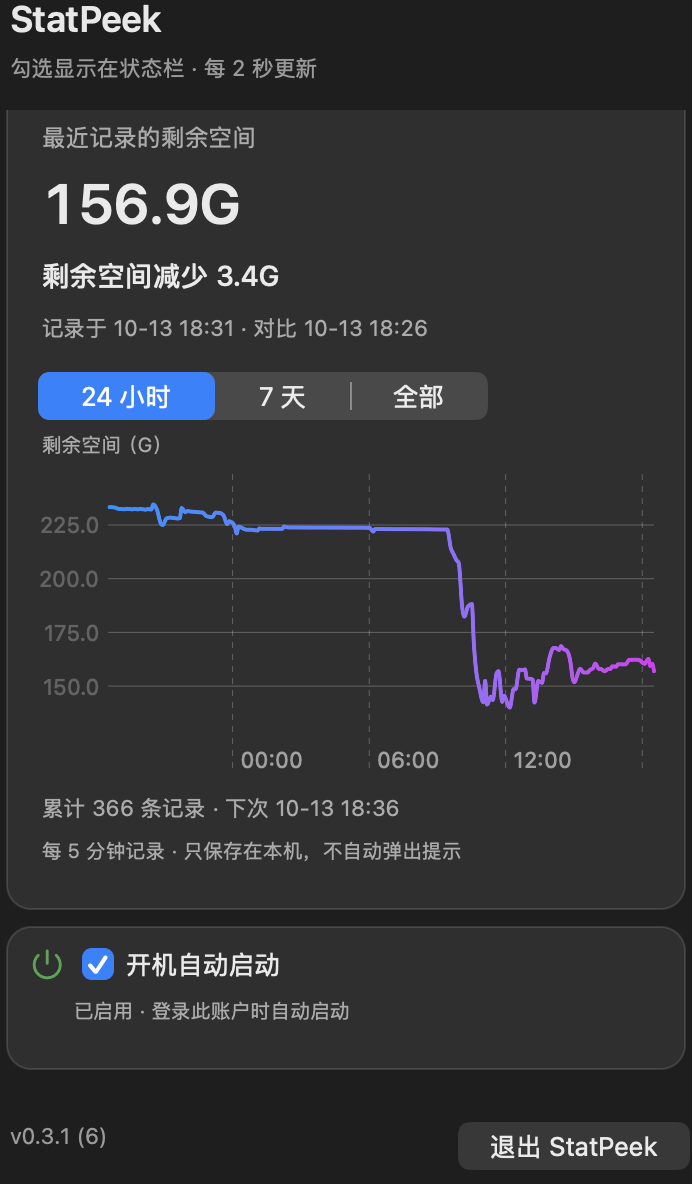
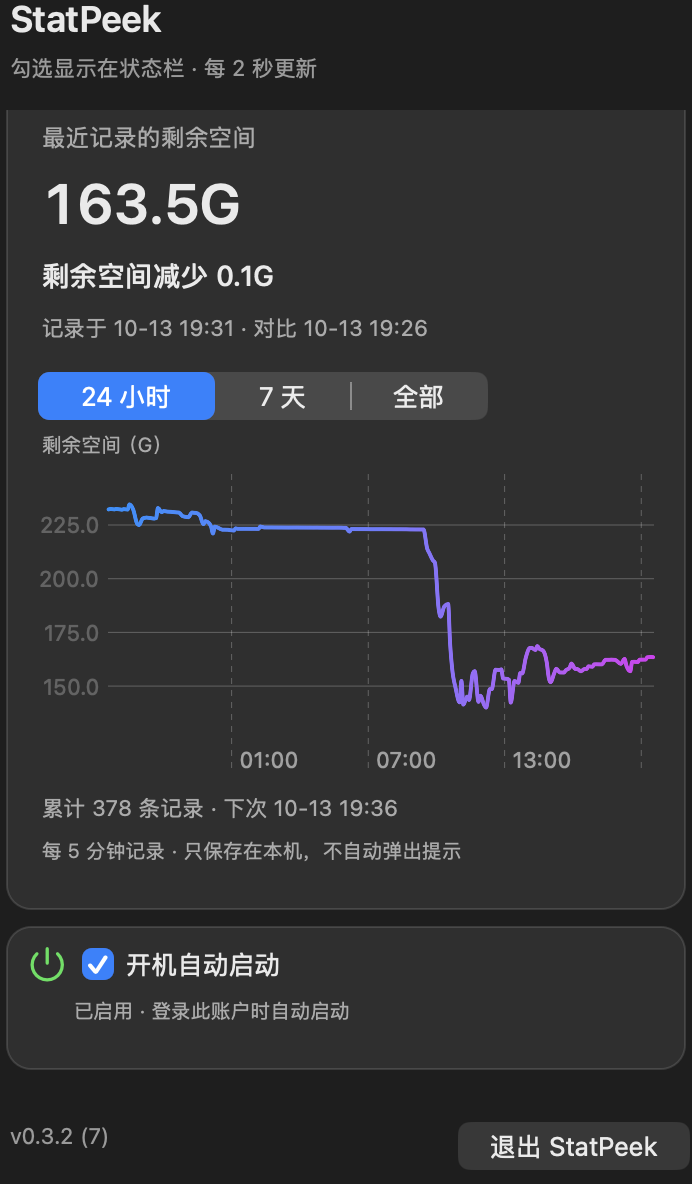
优化原生符号动画并保持选色时设置浮层
GPU 使用三层立体 SF Symbol 表达图形渲染，四项继续保持统一系统图标风格。动画改为 macOS 15+ 原生 Breathe 分层呼吸，移除自制透明度兼容动画；旧系统保持静态。
设置浮层采用半临时行为，系统颜色面板打开、切换配色目标与关闭面板时保留浮层并实时刷新；应用失去激活时关闭，保留 Escape 和状态栏关闭操作。
升级至 0.3.2（7）。完整 43 项 Release 测试、四项原生动画截帧、颜色面板共存、真实退出重启保存、原历史和偏好保留以及 Applications 安装复核通过，更新真实截图和验收记录。

diff --git a/StatPeek/ModuleSymbolView.swift b/StatPeek/ModuleSymbolView.swift
@@ -1,5 +1,4 @@
 import AppKit
-import QuartzCore
 import Symbols
 
 /// Decorative symbols stay inside the popover; status-bar labels remain D/C/M/G.
@@ -23,25 +22,12 @@ final class ModuleSymbolView: NSImageView {
     func setAnimating(_ animate: Bool) {
         guard animate != isAnimating else { return }
         isAnimating = animate
-        if #available(macOS 14.0, *) {
+        // Breathe is native to SF Symbols on macOS 15+. Older systems stay static.
+        if #available(macOS 15.0, *) {
             if animate {
-                addSymbolEffect(.pulse.wholeSymbol, options: .repeating.speed(0.45))
+                addSymbolEffect(.breathe.plain.byLayer, options: .repeating.speed(0.65))
             } else {
                 removeAllSymbolEffects()
-            }
-        } else {
-            wantsLayer = true
-            if animate {
-                let pulse = CABasicAnimation(keyPath: "opacity")
-                pulse.fromValue = 0.65
-                pulse.toValue = 1.0
-                pulse.duration = 1.5
-                pulse.autoreverses = true
-                pulse.repeatCount = .infinity
-                pulse.timingFunction = CAMediaTimingFunction(name: .easeInEaseOut)
-                layer?.add(pulse, forKey: "module-pulse")
-            } else {
-                layer?.removeAnimation(forKey: "module-pulse")
             }
         }
     }

diff --git a/StatPeek/StatusBarController.swift b/StatPeek/StatusBarController.swift
@@ -22,10 +22,13 @@ final class StatusBarController: NSObject, NSPopoverDelegate {
             button.setAccessibilityIdentifier("status-toggle")
             button.addSubview(strip)
         }
-        popover.behavior = .transient
+        // Keep settings visible when a window of this app (the color panel) gains focus.
+        popover.behavior = .semitransient
         popover.animates = false
         popover.delegate = self
         popover.contentViewController = settings
+        NotificationCenter.default.addObserver(self, selector: #selector(closeOnDeactivation),
+                                               name: NSApplication.didResignActiveNotification, object: NSApp)
         settings.onToggle = { [weak self] metric in
             guard let self else { return }
             self.selection.toggle(metric)
@@ -107,6 +110,10 @@ final class StatusBarController: NSObject, NSPopoverDelegate {
 
     func popoverDidClose(_ notification: Notification) {
         if !selection.selected.contains(.cpu) { sampler.resetCPU() }
+    }
+
+    @objc private func closeOnDeactivation() {
+        if popover.isShown { popover.performClose(nil) }
     }
 
     @objc private func togglePopover() {

diff --git a/StatPeek/SettingsViewController.swift b/StatPeek/SettingsViewController.swift
@@ -251,7 +251,7 @@ private final class MetricCardView: DashboardCardView {
         case .disk: symbolName = "internaldrive"
         case .cpu: symbolName = "cpu"
         case .memory: symbolName = "memorychip"
-        case .gpu: symbolName = "cpu.fill"
+        case .gpu: symbolName = "square.3.layers.3d"
         }
         symbol = ModuleSymbolView(name: symbolName, color: .labelColor,
                                   frame: NSRect(x: 12, y: frame.height - 28, width: 18, height: 18))

diff --git a/docs/SPEC.md b/docs/SPEC.md
@@ -5,7 +5,7 @@
 Stat 表示系统状态，Peek 表示点开看一眼。产品、主 Target、共享 Scheme 均使用 StatPeek。
 当前任务完成原生 macOS 项目、本机界面验证、应用图标、Xcode 应用信息、Applications 安装，并推送到用户授权的 GitHub 公开仓库；商标核验与 App Store 上架另行处理。
 
-应用信息：StatPeek，Bundle ID `com.zyapps.StatPeek`，版本 0.3.1 / Build 6，Utilities 分类，最低 macOS 13.0。原型 `local.StatPeek` 的选择与配色在新标识首次启动时迁移，已有新偏好不覆盖。
+应用信息：StatPeek，Bundle ID `com.zyapps.StatPeek`，版本 0.3.2 / Build 7，Utilities 分类，最低 macOS 13.0。原型 `local.StatPeek` 的选择与配色在新标识首次启动时迁移，已有新偏好不覆盖。
 
 图标：深蓝底板、两排彩色状态指示，见 `icon-design.md`；AppIcon 资源包含 macOS 标准 16–1024 像素尺寸。
 
@@ -109,3 +109,13 @@ Stat 表示系统状态，Peek 表示点开看一眼。产品、主 Target、共
 - 用既有仪表盘/历史测试与真实上下滚动验证，安装并同步 GitHub。
 
 动画 API：[Apple PulseSymbolEffect](https://developer.apple.com/documentation/symbols/pulsesymboleffect)。
+
+## 0.3.2 原生分层呼吸与 GPU 图标
+
+- 四项继续使用系统 SF Symbol，GPU 改为 square.3.layers.3d，用三层立体图形表达图形渲染；这是产品语义选择，不宣称为 Apple 专用 GPU 符号。Apple 目录未提供名为 gpu 或 graphicscard 的符号。
+- macOS 15+ 可见图标使用 BreatheSymbolEffect.plain.byLayer，按系统原生运动图层平滑缩放，速度 0.65；不额外叠加透明度、弹跳或旋转。GPU 符号具有三组原生运动图层，其余三项具有一组。
+- macOS 13/14 保持静态；移除 Core Animation 兼容动画。系统开启减少动态效果、关闭浮层或滚出可见区域时停止；指标自选配色、紧凑卡片和状态栏字母保留。
+- 验收原生动画实际帧变化、四项图标清晰度、滚动/关闭/重新打开、勾选和重启保存；保留原偏好与真实历史，再安装和推送。
+- 系统颜色面板打开或切换目标时，设置浮层保持显示，数值和配色实时刷新；关闭颜色面板仍可继续操作设置。浮层使用 semi-transient，切到其他应用时主动关闭；状态栏再次点击与 Escape 仍可关闭。
+
+依据：[Apple BreatheSymbolEffect](https://developer.apple.com/documentation/symbols/breathesymboleffect)、[Apple SF Symbols 动画](https://developer.apple.com/design/human-interface-guidelines/sf-symbols)。系统版本门槛以本机 SDK 的 macOS 15.0 声明为准，图层依据 Apple SF Symbols 导出模板核验。

diff --git a/docs/VALIDATION.md b/docs/VALIDATION.md
@@ -1,5 +1,17 @@
 # 验证记录
 
+## 0.3.2 / Build 7 · 2026-10-13
+
+- 最终完整 Release 套件 **43 项 XCTest 通过，0 失败**。动画与颜色浮层修复均包含在最终构建；此前仅动画的构建不用于安装。
+- Apple SF Symbols 目录中 gpu/graphicscard 无对应名称，原 cpu.fill 与 CPU 相似。GPU 改为 square.3.layers.3d，用三层图形表达图形渲染；这是本应用的语义选择，不宣称为 Apple 专用 GPU 符号。四项保持统一 SF 风格，未生成额外位图。
+- Apple 导出模板确认 GPU 有三组运动图层，磁盘/CPU/内存各一组。改用系统原生 Breathe.plain.byLayer（速度 0.65），移除 Core Animation 透明度替代。九个原生截图分别比较四项独立图标区域，均观察到缩放动画；另保留六秒实际安装动画录像在本机工作目录。macOS 13/14 保持静态，macOS 15+ 使用原生效果，Symbols 弱链接保留最低 macOS 13。
+- 浮层改为 semi-transient，并在应用失去激活状态时关闭。真实打开 CPU 颜色面板后浮层持续显示且读数更新；切到 GPU 配色保留浮层，初始化不覆盖 CPU 配色，关闭面板后浮层仍可操作。Finder 激活、状态栏再次点击及 Escape 关闭验证通过。
+- CPU #336699、GPU #33AA77 与取消 GPU 显示均经过真实退出/启动恢复，随后恢复测试前的四项全选和蓝/橙/紫/绿配色；已启用登录启动项保留。376 条原历史按 ID 逐行保持不变，正常五分钟记录继续至安装时 378 条。首次 GUI 流程在末尾重启检查时受外部焦点中断，重新完成验证，未将中断尝试标为完整通过。
+- 安装副本再次实测颜色面板与浮层同时显示、面板关闭后保留浮层及真实退出/启动保存。最终 `/Applications/StatPeek.app` 为 **0.3.2 (7)**，唯一运行进程来自该路径；arm64/x86_64，严格签名检查通过。有效 LSUIElement=true、ITSAppUsesNonExemptEncryption=false 为布尔值。
[1 lines of base64/hex data omitted]
+
+结构化证据见 [native-symbols-acceptance.json](native-symbols-acceptance.json)。以下为历史版本证据。
+
 ## 0.3.1 / Build 6 · 2026-10-13
 
 - 完整 Release 套件 **43 项 XCTest 通过，0 失败**；源、测试与最终安装来自同一次构建。

diff --git a/README.md b/README.md
@@ -18,8 +18,8 @@ A compact macOS menu bar monitor. Selected metrics appear in two rows of colored
 - 状态栏持续每 2 秒刷新；浮层打开时预览四项，关闭后只采样选中项。勾选仅决定状态栏显示。
 - 四项全选时，上行为磁盘和 CPU，下行为内存和 GPU；紧凑留白和列间隔减少菜单栏占用，刷新时保持宽度稳定。
 - 四项各有紧凑淡色卡片，百分比只在进度条右侧显示；磁盘显示总容量、已用、剩余，进度代表已用比例。采样中或不可用不画虚假的零进度。
-- 浮层模块使用彩色 SF Symbol 与轻微呼吸动画，指标图标跟随所选颜色；关闭浮层或滚出可见区域后停止，遵循系统“减少动态效果”。状态栏仍使用 D/C/M/G 字母。macOS 14+ 使用原生 Symbol Effect，macOS 13 使用透明度动画。
-- 行尾淡色小圆点打开 macOS 系统颜色面板，任意 RGB 配色即时生效并在重启后恢复；兼容旧六种配色，单项修改不影响其他项。
+- 浮层模块使用彩色 SF Symbol，GPU 用三层立体图形表达图形渲染，与 CPU/内存区分。macOS 15+ 使用系统原生 Breathe 分层呼吸，较旧系统保持静态，不添加自制动画；关闭浮层、滚出可见区域或开启系统“减少动态效果”时停止。状态栏仍使用 D/C/M/G 字母。
+- 行尾淡色小圆点打开 macOS 系统颜色面板，设置浮层保持显示，可同时查看即时配色；关闭颜色面板仍可操作设置。任意 RGB 配色在重启后恢复；兼容旧六种配色，单项修改不影响其他项。
 - 滚动内容最下方的「开机自动启动」使用 macOS 原生登录启动项；勾选后在当前用户登录时启动，取消即注销。默认关闭，需要系统批准或设置失败时明确提示。
 - 磁盘保留一位小数，单位使用单字母，例如 `320.8G`。
 - 后台每 5 分钟记录一次磁盘剩余空间，即使取消磁盘显示也继续记录；只保存本机，静默运行。
@@ -56,7 +56,7 @@ xcodegen generate
 | --- | --- |
 | Product / Target / Scheme | StatPeek |
 | Bundle identifier | com.zyapps.StatPeek |
-| Version / Build | 0.3.1 / 6 |
+| Version / Build | 0.3.2 / 7 |
 | Category | Utilities |
 | Minimum macOS | 13.0 |
 | App icon | 10 个标准 macOS AppIcon 资源尺寸 |
